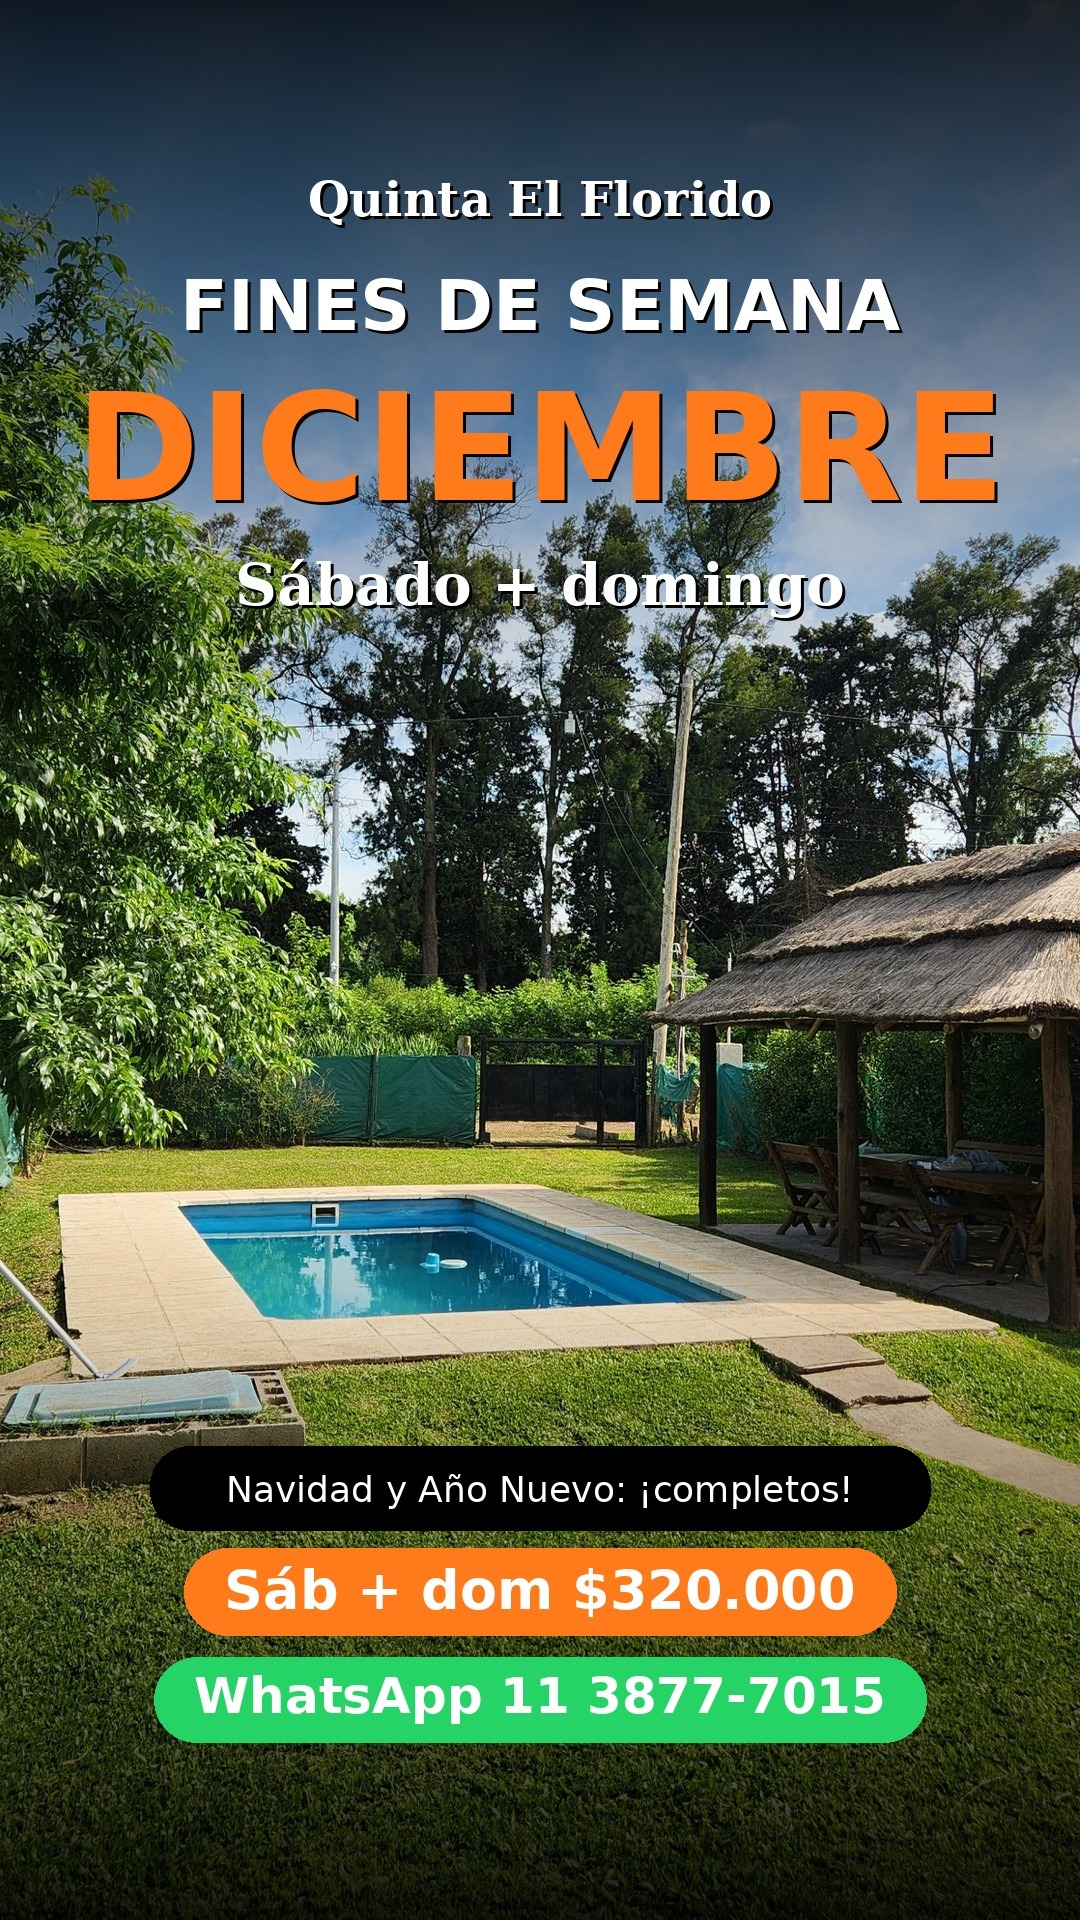
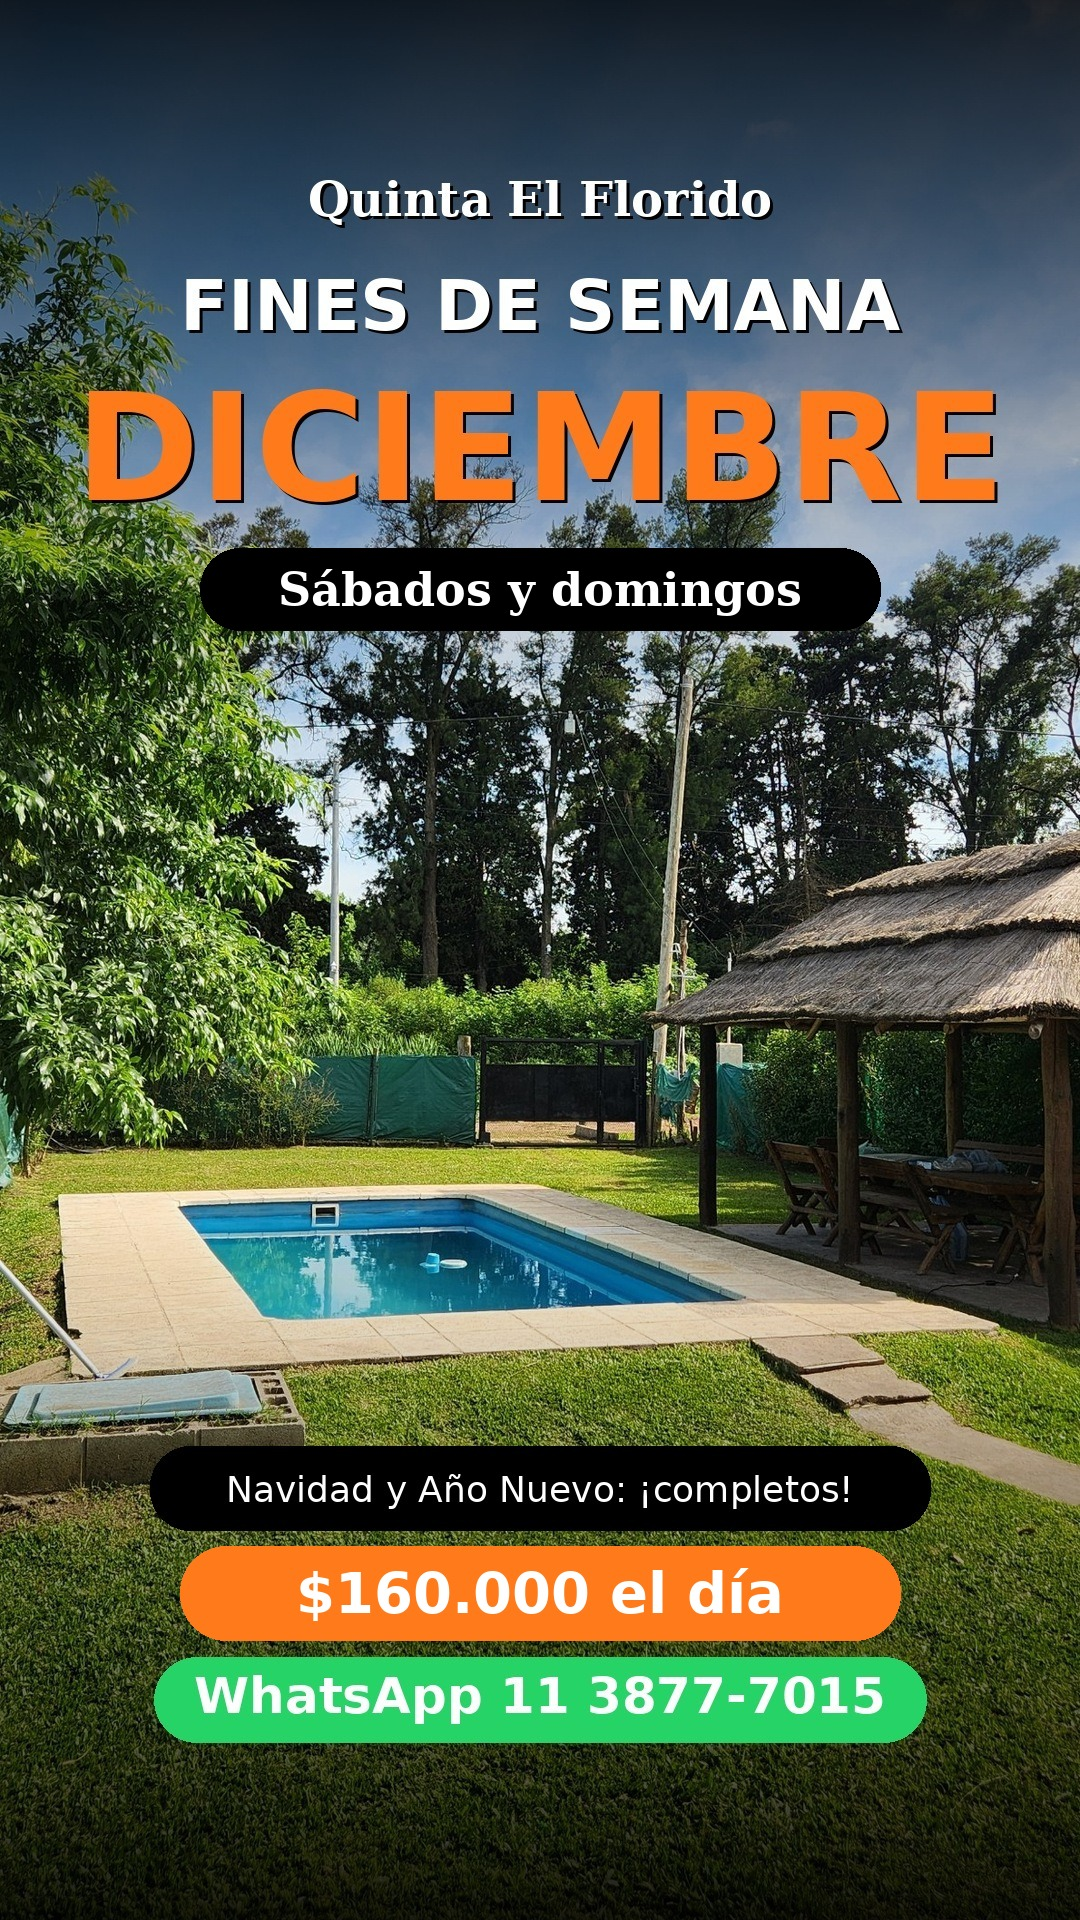
Quinta: casa viernes 160k (200k finde largo), feriados, quinta de día solo por día; historia diciembre $160k el día
Claude-Session: https://claude.ai/code/session_01A1E79gCPSTjK8GwH8ohLCf

diff --git a/quinta-ig/bot/ver.html b/quinta-ig/bot/ver.html
@@ -14,8 +14,9 @@ const f=s=>s.includes('[COMPLETAR')?`<span class="falta">${s}</span>`:s;
 fetch('quinta.json?'+Date.now()).then(r=>r.json()).then(d=>{
 document.getElementById('act').textContent='Última actualización: '+d.actualizado;document.getElementById('act2').textContent=d.actualizado;
 let P=null;const pr=(q,dt)=>{const w=dt.getDay(),R=P.precio_por_dia[q];let v;
- if(q=='dia'){v=(w==1||w==2||w==3||w==4)?R['lunes a jueves']:R['viernes, sábado, domingo y feriado']}
- else{v=(w==0||w==6)?R['sábado, domingo y feriado']:(w==5?R['viernes']:R['lunes a jueves'])}
+ const k=`${dt.getFullYear()}-${String(dt.getMonth()+1).padStart(2,'0')}-${String(dt.getDate()).padStart(2,'0')}`,F=(d.feriados||{}),fer=(F.fechas||[]).includes(k),vl=(F.viernes_finde_largo||[]).includes(k);
+ if(q=='dia'){v=(w>=1&&w<=4&&!fer)?R['lunes a jueves']:R['viernes, sábado, domingo y feriado']}
+ else{v=(w==0||w==6||fer||vl)?R['sábado, domingo, feriado y viernes de finde largo']:R['lunes a viernes']}
  return v&&!v.includes('[')?v.replace('$','').replace('.000','k'):'—'};
 const cal=q=>{let h='';const hoy=new Date();for(let m=0;m<5;m++){const p=new Date(hoy.getFullYear(),hoy.getMonth()+m,1);
 h+=`<div class="nom">${p.toLocaleDateString('es-AR',{month:'long',year:'numeric'})}</div><div class="mes">`+'LMMJVSD'.split('').map(x=>`<div style="text-align:center;font-size:11px">${x}</div>`).join('');

diff --git a/quinta-ig/bot/INSTRUCCIONES.md b/quinta-ig/bot/INSTRUCCIONES.md
@@ -16,6 +16,8 @@
 - Fechas: si la fecha figura en "calendario" de quinta.json para esa quinta (o con quinta "?"), decir que esa fecha ya está tomada y ofrecer otra libre cercana. Si NO figura, decir "esa fecha en principio la tenemos libre", nunca "confirmado".
 - Precios: son privados, están cifrados. Leerlos con `CLAVE=<clave> python3 quinta-ig/bot/bot.py precios` (la clave está en el pedido de la tarea). Usar "precio_por_dia" según la quinta y el día de la semana. Si dice [COMPLETAR] o bot_lo_dice es false, no dar número. Nunca escribir precios en archivos del repo.
 - Casa con noche: se cobran 2 días (entran el 1er día 10 h, se van el 2do día 19 h). Horario por día en las dos: 10 a 19 h.
+- Quinta de día: SOLO por día (10 a 19 h). No tiene casa, camas ni lugar cerrado: nunca ofrecerla para dormir ni por varios días. Si quieren quedarse, ofrecer la casa.
+- Feriados y viernes de finde largo: ver "feriados" en quinta.json (se cobran como sábado/domingo).
 - Año Nuevo (31/12 al 3/1) está alquilado en las dos quintas.
 - Calor: si el cliente pregunta para días de calor o de este finde, transmitir que se llena rápido y conviene reservar ya.
 - Nunca confirmar reservas, ni cobrar, ni pasar datos de pago. Para reservar: "escribinos al WhatsApp 11 3877-7015 y lo cerramos".
